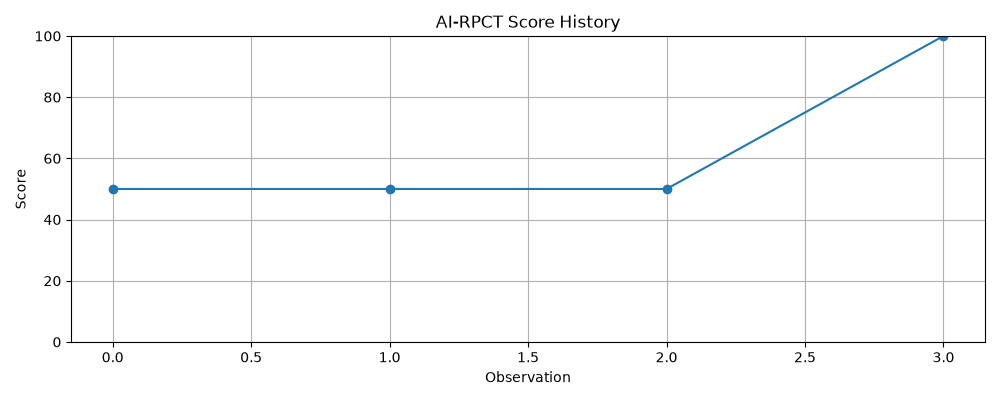
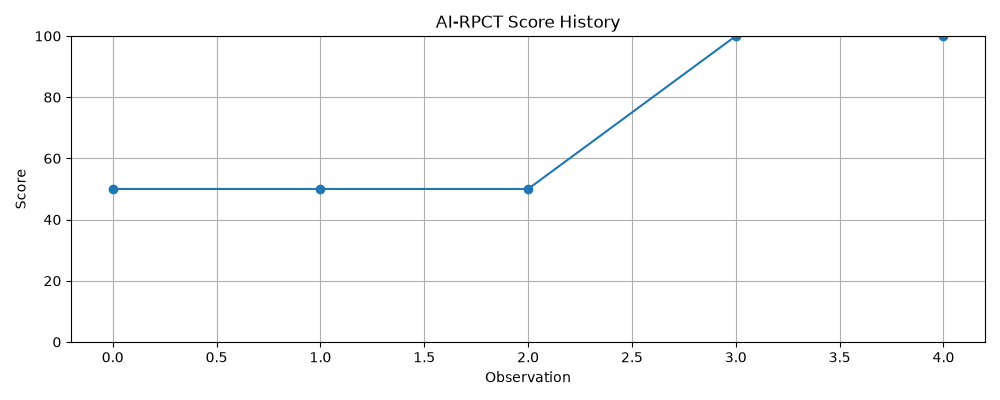
AI-RPCT v1.3 project structure

diff --git a/dashboard.html b/dashboard.html
@@ -27,7 +27,7 @@ th { color:#9ca3af; }
     <div class="signal">Signal: CRITICAL</div>
     <div class="drivers">Drivers: NVDA above 200, BTC above 60k, ETH above 1800, AKT above 0.75, H100 price above $2/hr, A100 price above $1/hr, H100 availability constrained, A100 availability constrained</div>
     <br>
-    <div>Last update: 2026-06-16 15:58:20</div>
+    <div>Last update: 2026-06-16 16:04:24</div>
   </div>
 
   <div class="card">
@@ -40,13 +40,13 @@ th { color:#9ca3af; }
 <table>
 <tr><th>Asset</th><th>Ticker</th><th>Price</th><th>Timestamp</th></tr>
 
-    <tr><td>AKT</td><td>AKT-USD</td><td>$0.7910</td><td>2026-06-16 15:41:29</td></tr>
+    <tr><td>AKT</td><td>AKT-USD</td><td>$0.8000</td><td>2026-06-16 16:04:24</td></tr>
     
-    <tr><td>BTC</td><td>BTC-USD</td><td>$66067.3984</td><td>2026-06-16 15:41:27</td></tr>
+    <tr><td>BTC</td><td>BTC-USD</td><td>$66152.0000</td><td>2026-06-16 16:04:23</td></tr>
     
-    <tr><td>ETH</td><td>ETH-USD</td><td>$1804.6600</td><td>2026-06-16 15:41:28</td></tr>
+    <tr><td>ETH</td><td>ETH-USD</td><td>$1801.9301</td><td>2026-06-16 16:04:23</td></tr>
     
-    <tr><td>NVDA</td><td>NVDA</td><td>$209.3199</td><td>2026-06-16 15:41:27</td></tr>
+    <tr><td>NVDA</td><td>NVDA</td><td>$209.5000</td><td>2026-06-16 16:04:23</td></tr>
     
 </table>
 
@@ -54,9 +54,9 @@ th { color:#9ca3af; }
 <table>
 <tr><th>GPU</th><th>Provider</th><th>Price / Hour</th><th>Availability</th><th>Timestamp</th></tr>
 
-    <tr><td>A100</td><td>manual</td><td>$1.05</td><td>2500</td><td>2026-06-16 15:41:29</td></tr>
+    <tr><td>A100</td><td>manual</td><td>$1.05</td><td>2500</td><td>2026-06-16 16:04:24</td></tr>
     
-    <tr><td>H100</td><td>manual</td><td>$2.15</td><td>1000</td><td>2026-06-16 15:41:29</td></tr>
+    <tr><td>H100</td><td>manual</td><td>$2.15</td><td>1000</td><td>2026-06-16 16:04:24</td></tr>
     
 </table>
 
@@ -71,6 +71,8 @@ th { color:#9ca3af; }
     <tr><td>2026-06-16 15:42:06</td><td>50</td><td>Watch</td><td>No major stress drivers</td></tr>
     
     <tr><td>2026-06-16 15:58:20</td><td>100</td><td>Critical</td><td>NVDA above 200, BTC above 60k, ETH above 1800, AKT above 0.75, H100 price above $2/hr, A100 price above $1/hr, H100 availability constrained, A100 availability constrained</td></tr>
+    
+    <tr><td>2026-06-16 16:04:24</td><td>100</td><td>Critical</td><td>NVDA above 200, BTC above 60k, ETH above 1800, AKT above 0.75, H100 price above $2/hr, A100 price above $1/hr, H100 availability constrained, A100 availability constrained</td></tr>
     
 </table>
 </body>